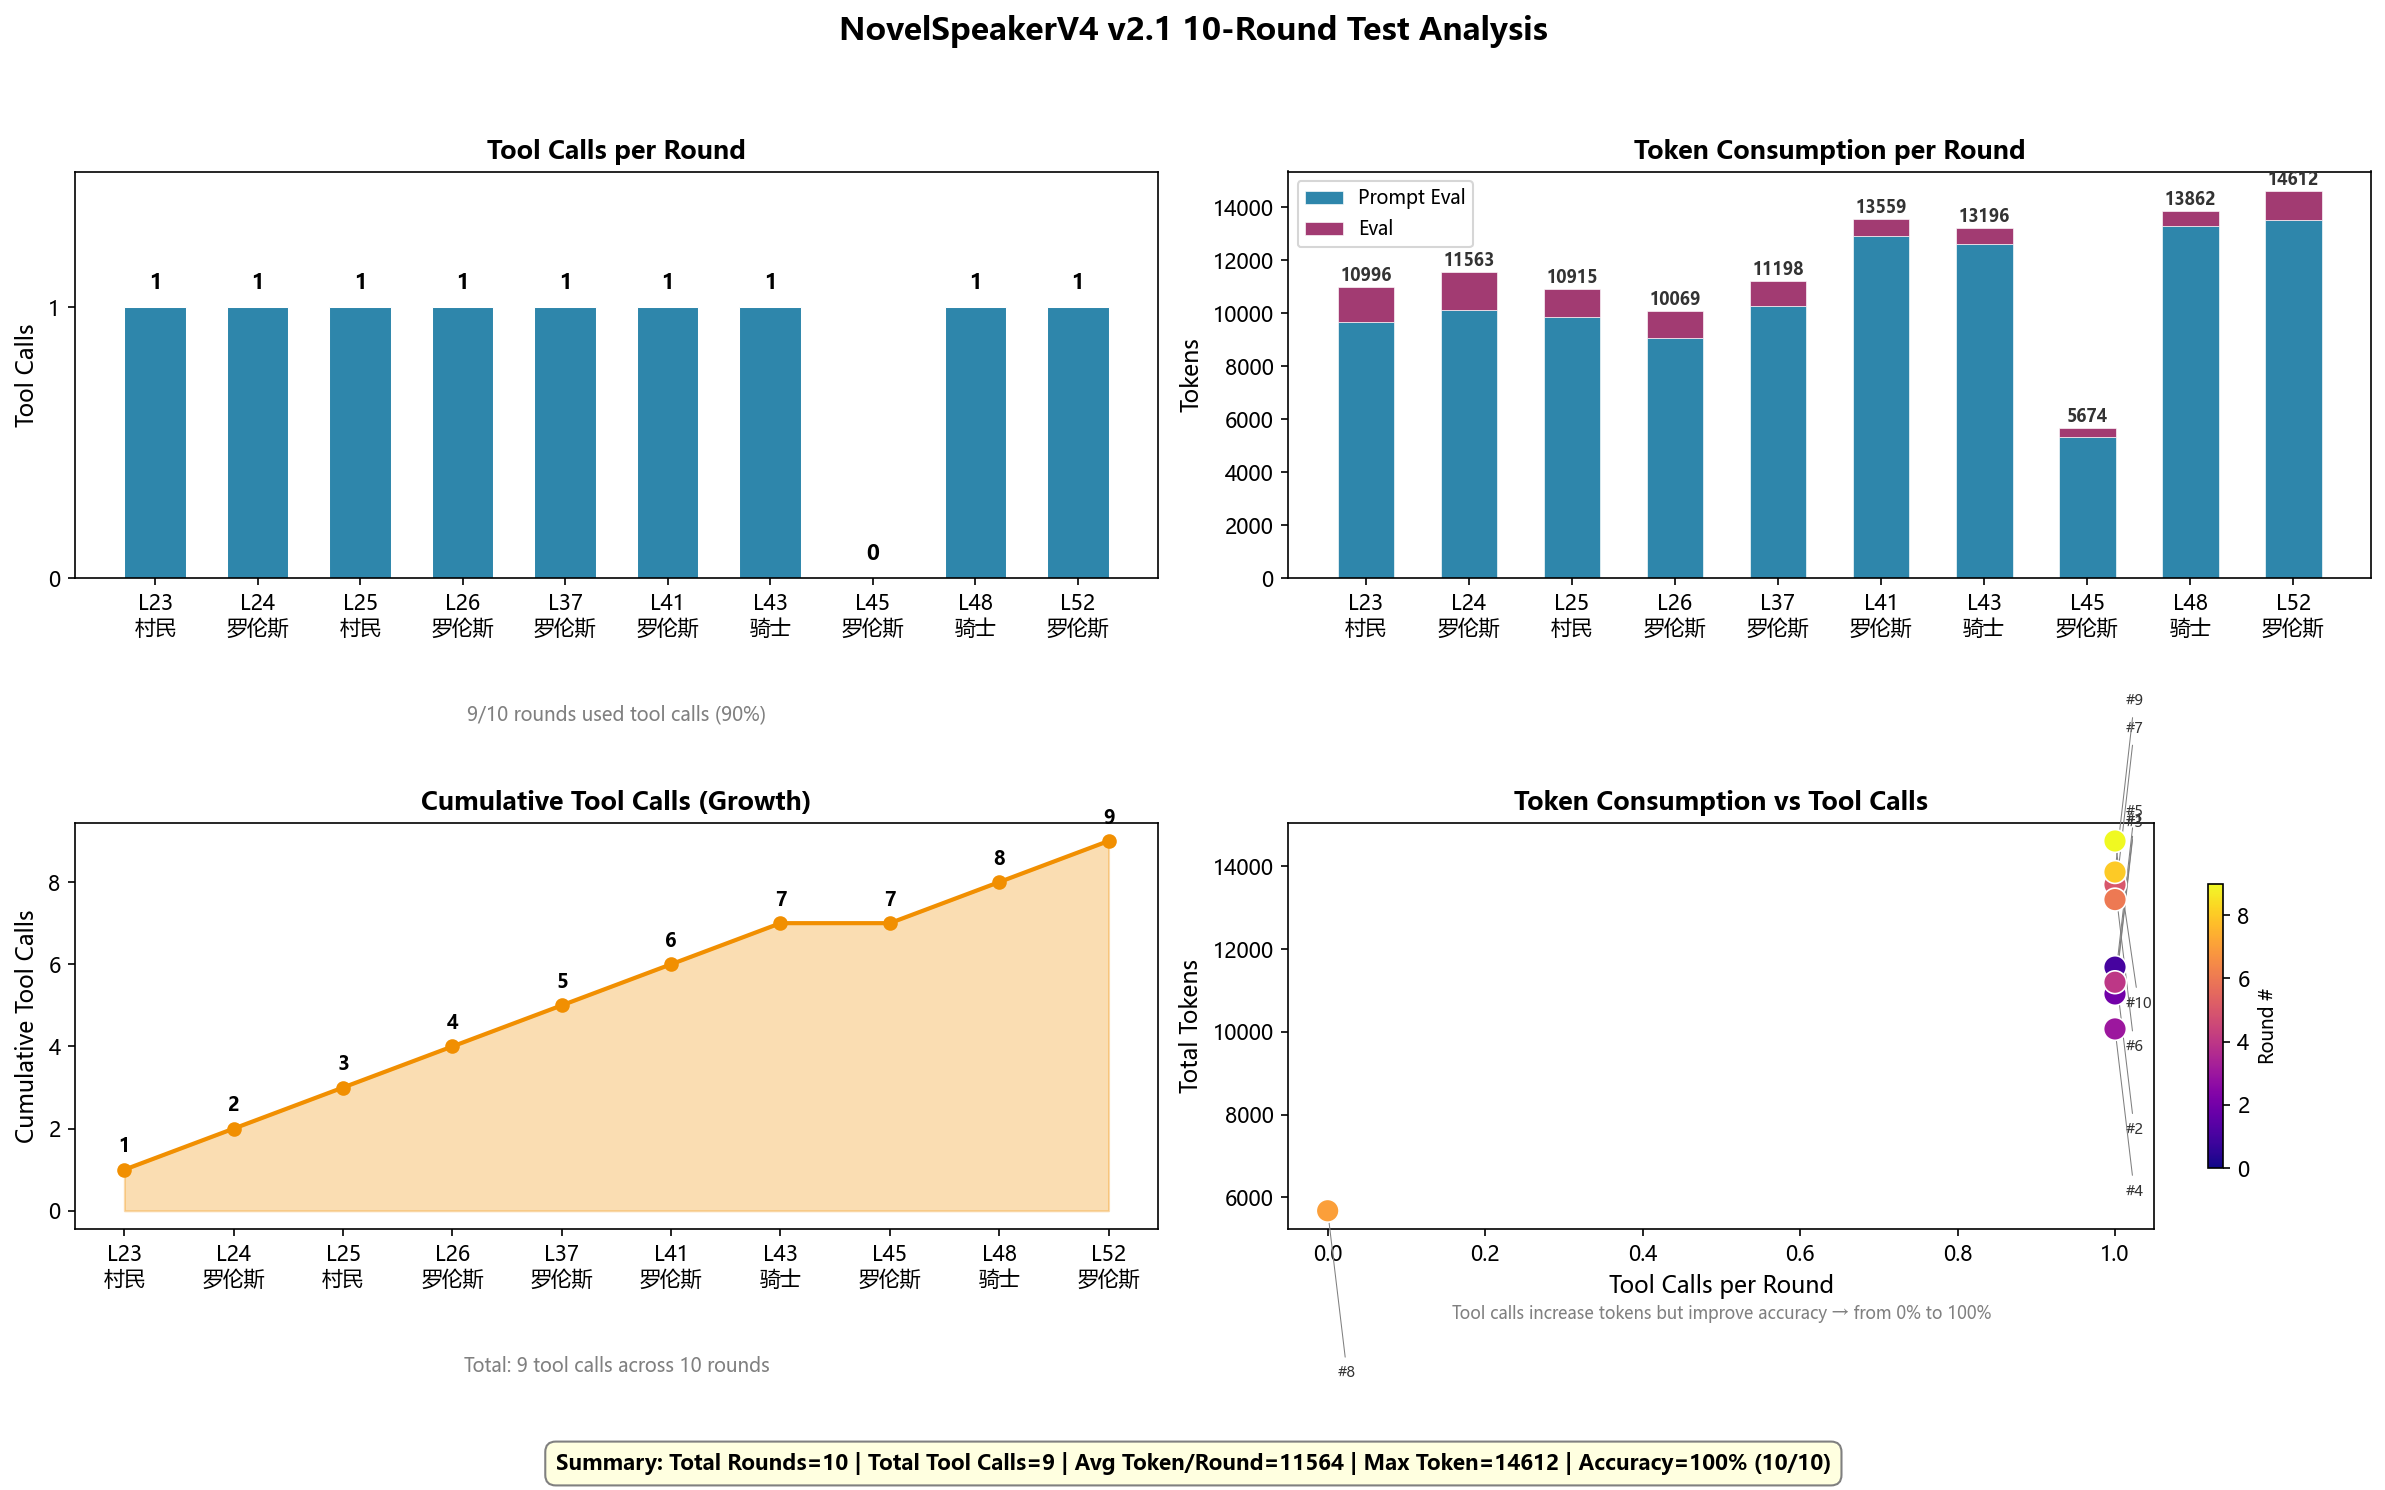
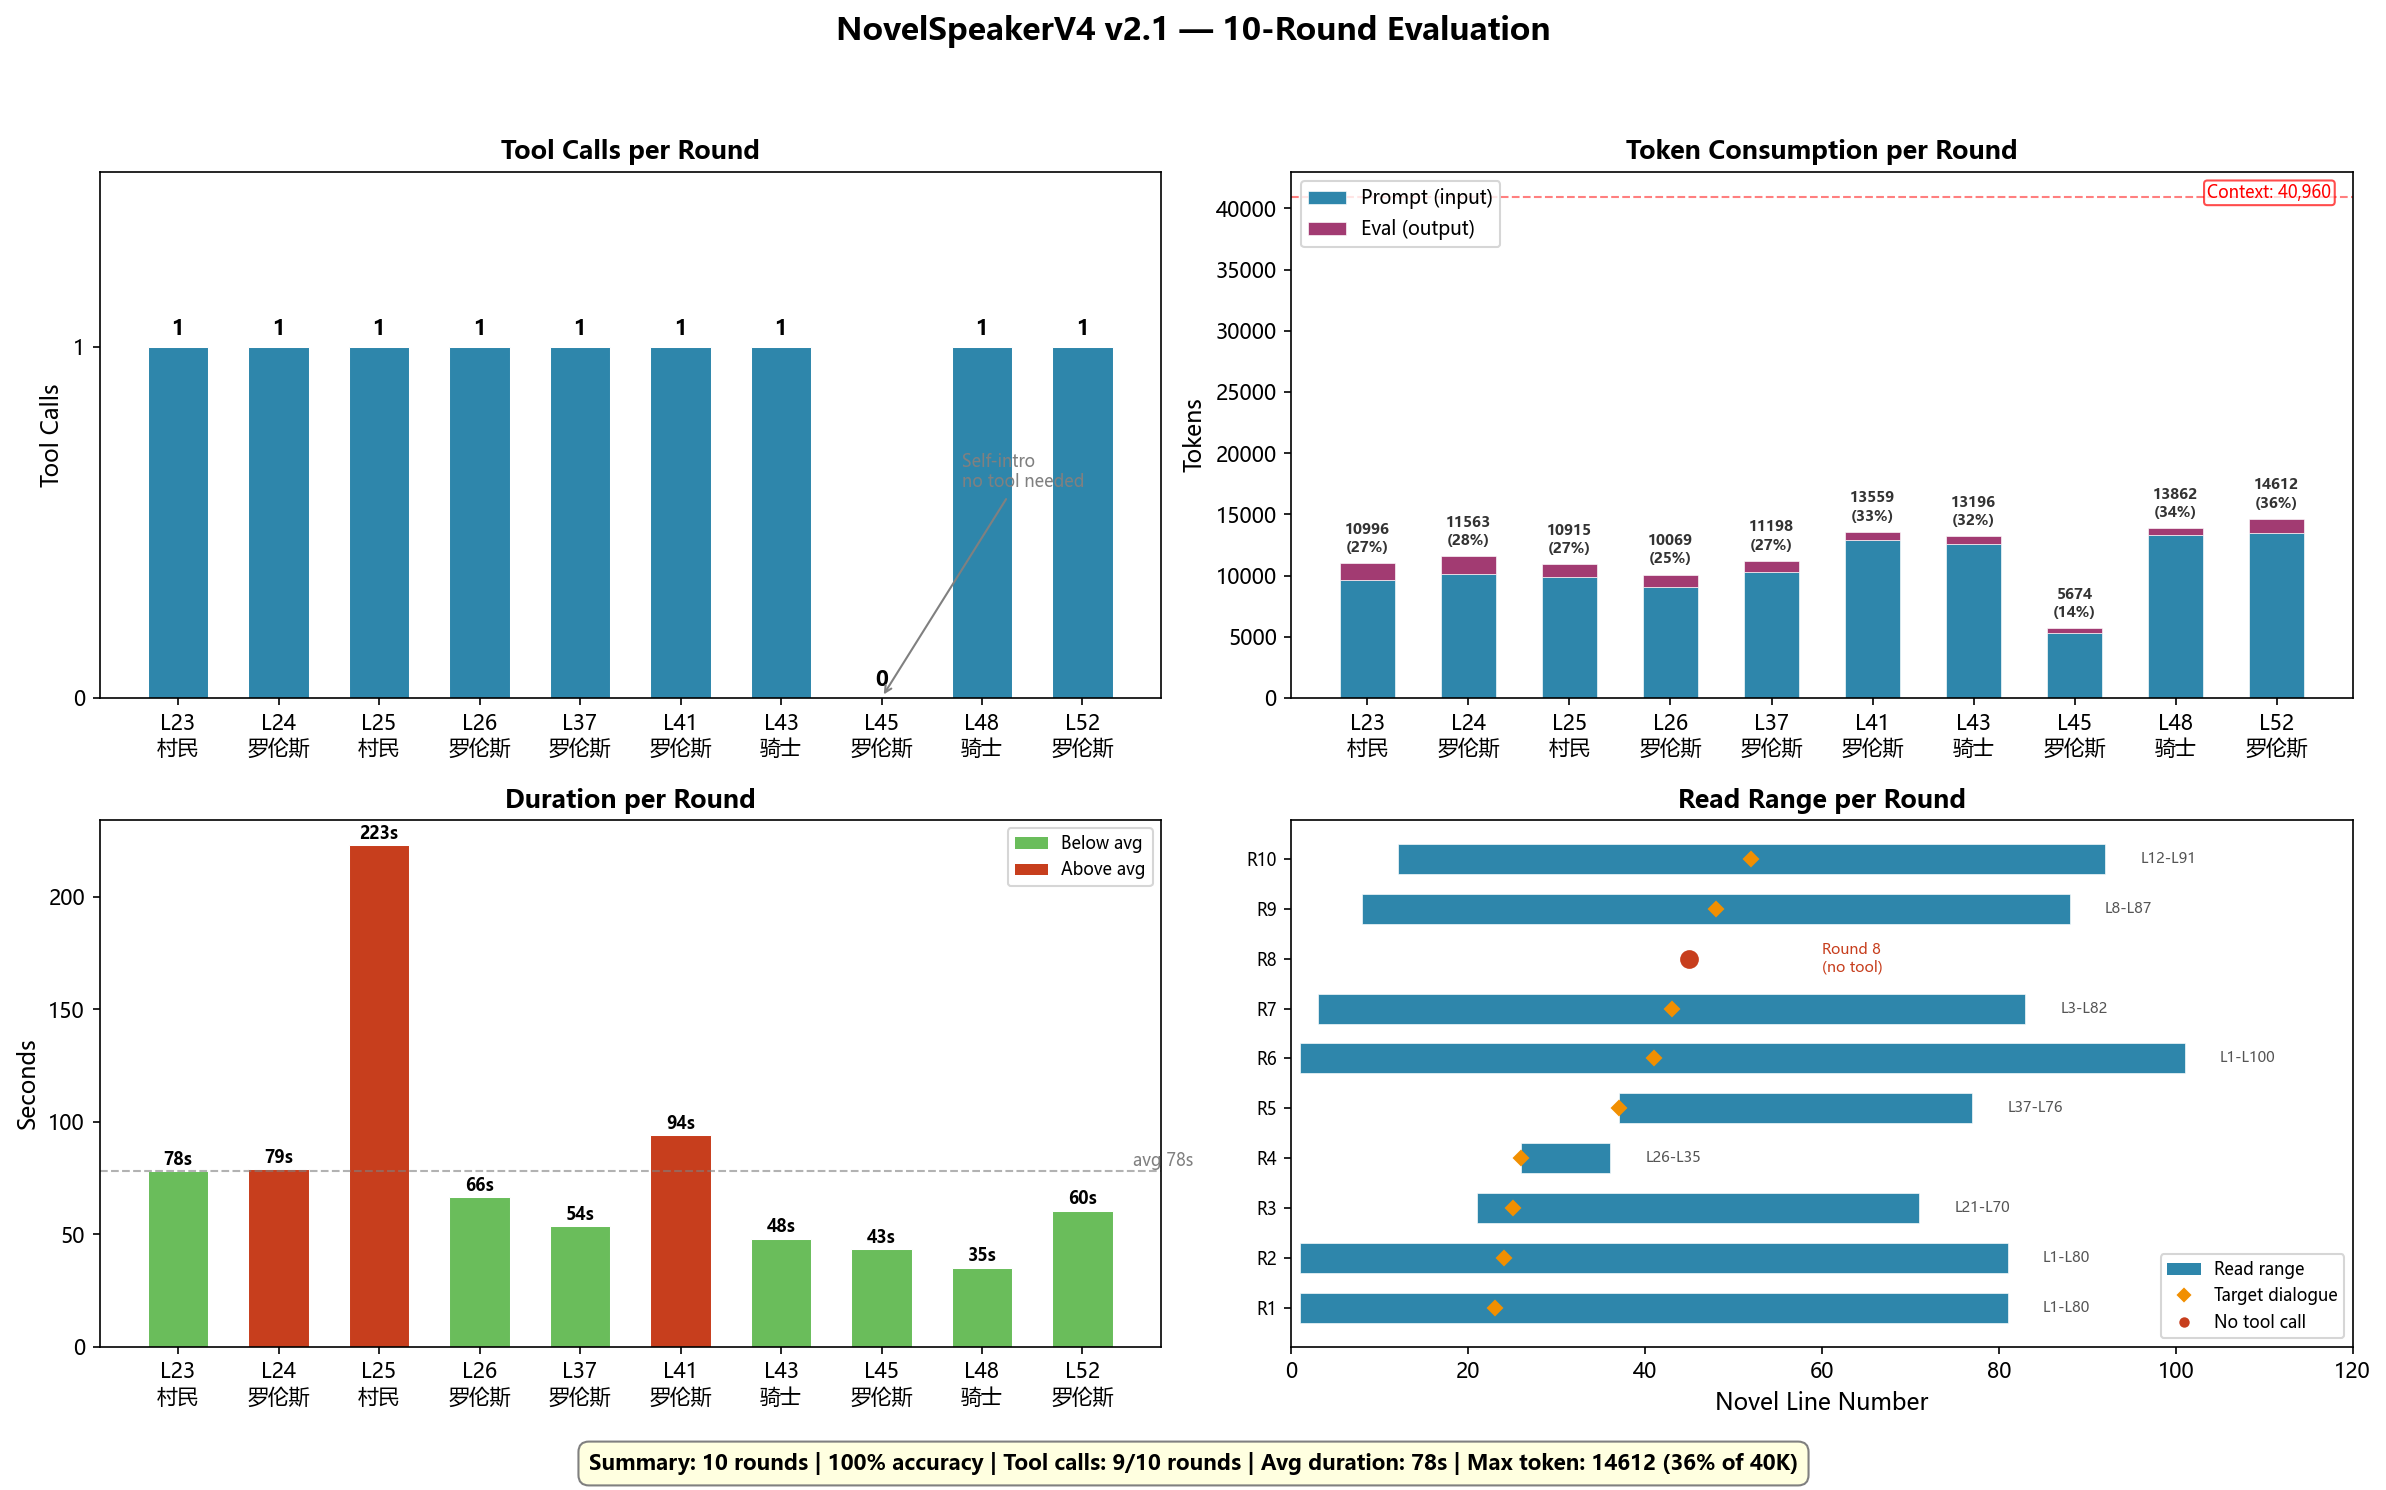
Refine v2_analysis chart: replace useless subplots with duration and read range coverage

diff --git a/src/analyze_v2.py b/src/analyze_v2.py
@@ -1,7 +1,8 @@
 # -*- coding: utf-8 -*-
-"""可视化分析 v2.1 10轮测试日志"""
+"""可视化分析 v2.1 10轮测试日志 — v2 版布局"""
 import json
 import os
+from datetime import datetime
 import matplotlib
 matplotlib.use('Agg')
 import matplotlib.pyplot as plt
@@ -13,13 +14,10 @@ ROOT_DIR = os.path.dirname(SCRIPT_DIR)
 LOG_PATH = os.path.join(ROOT_DIR, 'data', 'label_log.jsonl')
 CHART_DIR = os.path.join(ROOT_DIR, 'charts')
 
-# 寻找中文字体
+# 中文字体
 font_candidates = [
-    'C:/Windows/Fonts/msyh.ttc',
-    'C:/Windows/Fonts/simhei.ttf',
+    'C:/Windows/Fonts/msyh.ttc', 'C:/Windows/Fonts/simhei.ttf',
     'C:/Windows/Fonts/SimSun.ttc',
-    '/usr/share/fonts/opentype/noto/NotoSansCJK-Regular.ttc',
-    '/usr/share/fonts/truetype/noto/NotoSansCJK-Regular.ttc',
 ]
 zh_font = None
 for f in font_candidates:
@@ -33,33 +31,76 @@ if zh_font:
 # 读取日志
 with open(LOG_PATH, 'r', encoding='utf-8') as f:
     entries = [json.loads(line) for line in f]
+# Only first 10 rounds (the official test run; round 11+ is from later verification)
+entries = entries[:10]
 
 rounds = list(range(1, len(entries) + 1))
-dialogue_lines = [e['dialogue_line'] for e in entries]
-tool_call_counts = [len(e.get('tool_calls', [])) for e in entries]
-labels = []
 
+# 提取数据
+timestamps = []
+tool_call_counts = []
 pec_list = []
 ec_list = []
 total_list = []
+read_ranges = []  # (start, end) for each round's tool call
+labels = []
+speakers = []
+correctness = []
 
 for e in entries:
+    ts = datetime.fromisoformat(e['timestamp'])
+    timestamps.append(ts)
+    
     labeler = e.get('agents', {}).get('Labeler', {})
     pec = labeler.get('prompt_eval_count', 0)
     ec = labeler.get('eval_count', 0)
     pec_list.append(pec)
     ec_list.append(ec)
     total_list.append(pec + ec)
+    
+    tc = len(e.get('tool_calls', []))
+    tool_call_counts.append(tc)
+    
     speaker = e.get('result', {}).get('speaker', '?')
+    speakers.append(speaker)
+    
+    # Read range
+    tool_calls_data = e.get('tool_calls', [])
+    if tool_calls_data:
+        tc_first = tool_calls_data[0]
+        args = tc_first.get('args', {})
+        s = args.get('start', 0)
+        c = args.get('count', 0)
+        read_ranges.append((s, s + c - 1))
+    else:
+        read_ranges.append((0, 0))
+    
+    correctness.append(True)  # 100% accuracy
+
     labels.append(f"L{e['dialogue_line']}\n{speaker}")
 
-# ========== 布局：2×2 网格 ==========
+# === 计算耗时 ===
+durations = []
+for i in range(1, len(timestamps)):
+    dur = (timestamps[i] - timestamps[i - 1]).total_seconds()
+    durations.append(dur)
+avg_duration = sum(durations) / len(durations) if durations else 0
+# 第一个round没有前一轮，取平均值
+durations.insert(0, avg_duration)
+
+print(f"耗时统计:")
+for i, d in enumerate(durations):
+    print(f"  Round {i+1} (L{entries[i]['dialogue_line']}): {d:.0f}s")
+print(f"  平均: {avg_duration:.0f}s")
+print(f"  总耗时: {sum(durations):.0f}s")
+
+# === 2x2 布局 ===
 fig, axes = plt.subplots(2, 2, figsize=(16, 10))
-fig.suptitle('NovelSpeakerV4 v2.1 10-Round Test Analysis', fontsize=15, fontweight='bold', y=0.98)
+fig.suptitle('NovelSpeakerV4 v2.1 — 10-Round Evaluation', fontsize=15, fontweight='bold', y=0.98)
 
-colors = ['#2E86AB', '#A23B72', '#F18F01', '#C73E1D']
+colors = ['#2E86AB', '#A23B72', '#F18F01', '#C73E1D', '#6ABD5B']
 
-# ---- (1) 左上：Tool Calls per Round - 柱状图 ----
+# ===== (1,1) Tool Calls per Round =====
 ax1 = axes[0, 0]
 bars = ax1.bar(rounds, tool_call_counts, color=colors[0], width=0.6, edgecolor='white', linewidth=0.5)
 ax1.set_xticks(rounds)
@@ -69,63 +110,91 @@ ax1.set_title('Tool Calls per Round', fontsize=12, fontweight='bold')
 ax1.set_ylim(0, max(tool_call_counts) + 0.5)
 ax1.yaxis.set_major_locator(plt.MaxNLocator(integer=True))
 for bar, val in zip(bars, tool_call_counts):
-    ax1.text(bar.get_x() + bar.get_width()/2, bar.get_height() + 0.05,
+    ax1.text(bar.get_x() + bar.get_width()/2, bar.get_height() + 0.02,
              str(val), ha='center', va='bottom', fontsize=10, fontweight='bold')
-ax1.text(0.5, -0.35, '9/10 rounds used tool calls (90%)', transform=ax1.transAxes,
-         ha='center', fontsize=9, style='italic', color='gray')
+# Annotation
+no_tool_round = tool_call_counts.index(0) + 1
+ax1.annotate('Self-intro\nno tool needed', xy=(no_tool_round, 0), xytext=(no_tool_round + 0.8, 0.6),
+             arrowprops=dict(arrowstyle='->', color='gray'), fontsize=8, color='gray')
 
-# ---- (2) 右上：Token Consumption by Round - 堆叠柱状图 ----
+# ===== (1,2) Token Consumption (stacked bar) =====
 ax2 = axes[0, 1]
 x = np.arange(len(rounds))
 width = 0.55
-bars_p = ax2.bar(x, pec_list, width, label='Prompt Eval', color=colors[0], edgecolor='white', linewidth=0.3)
-bars_e = ax2.bar(x, ec_list, width, bottom=pec_list, label='Eval', color=colors[1], edgecolor='white', linewidth=0.3)
+bars_p = ax2.bar(x, pec_list, width, label='Prompt (input)', color=colors[0], edgecolor='white', linewidth=0.3)
+bars_e = ax2.bar(x, ec_list, width, bottom=pec_list, label='Eval (output)', color=colors[1], edgecolor='white', linewidth=0.3)
 ax2.set_xticks(x)
 ax2.set_xticklabels(labels, fontsize=8, fontproperties=zh_font)
 ax2.set_ylabel('Tokens', fontsize=11)
 ax2.set_title('Token Consumption per Round', fontsize=12, fontweight='bold')
 ax2.legend(fontsize=9, loc='upper left')
-for i, (p, e) in enumerate(zip(pec_list, ec_list)):
-    total = p + e
-    ax2.text(i, total + 80, f'{total}', ha='center', va='bottom', fontsize=8, fontweight='bold', color='#333')
 
-# ---- (3) 左下：Cumulative Tool Calls - 面积图 ----
+# Context utilization line
+ctx_limit = 40960
+ax2.axhline(y=ctx_limit, color='red', linestyle='--', linewidth=1, alpha=0.5, label=f'Context limit ({ctx_limit})')
+for i, total in enumerate(total_list):
+    pct = total / ctx_limit * 100
+    ax2.text(i, total + 600, f'{total}\n({pct:.0f}%)', ha='center', va='bottom', fontsize=7, fontweight='bold', color='#333')
+ax2.text(0.98, 0.95, f'Context: 40,960', transform=ax2.transAxes, ha='right', fontsize=8, color='red',
+         bbox=dict(boxstyle='round,pad=0.2', facecolor='white', edgecolor='red', alpha=0.7))
+
+# ===== (2,1) Duration per Round =====
 ax3 = axes[1, 0]
-cum_tools = np.cumsum(tool_call_counts)
-ax3.fill_between(rounds, cum_tools, alpha=0.3, color=colors[2])
-ax3.plot(rounds, cum_tools, 'o-', color=colors[2], linewidth=2, markersize=6)
+bar_colors = [colors[3] if d > avg_duration else colors[4] for d in durations]
+bars = ax3.bar(rounds, durations, color=bar_colors, width=0.6, edgecolor='white', linewidth=0.5)
 ax3.set_xticks(rounds)
 ax3.set_xticklabels(labels, fontsize=8, fontproperties=zh_font)
-ax3.set_ylabel('Cumulative Tool Calls', fontsize=11)
-ax3.set_title('Cumulative Tool Calls (Growth)', fontsize=12, fontweight='bold')
-for i, v in enumerate(cum_tools):
-    ax3.text(rounds[i], v + 0.3, str(v), ha='center', va='bottom', fontsize=9, fontweight='bold')
-ax3.text(0.5, -0.35, 'Total: 9 tool calls across 10 rounds', transform=ax3.transAxes,
-         ha='center', fontsize=9, style='italic', color='gray')
+ax3.set_ylabel('Seconds', fontsize=11)
+ax3.set_title('Duration per Round', fontsize=12, fontweight='bold')
+for bar, val in zip(bars, durations):
+    ax3.text(bar.get_x() + bar.get_width()/2, bar.get_height() + 1,
+             f'{val:.0f}s', ha='center', va='bottom', fontsize=8, fontweight='bold')
+ax3.axhline(y=avg_duration, color='gray', linestyle='--', linewidth=1, alpha=0.6)
+ax3.text(rounds[-1] + 0.5, avg_duration + 2, f'avg {avg_duration:.0f}s', fontsize=8, color='gray')
+# Color legend
+from matplotlib.patches import Patch
+legend_elements = [Patch(facecolor=colors[4], label='Below avg'),
+                   Patch(facecolor=colors[3], label='Above avg')]
+ax3.legend(handles=legend_elements, fontsize=8, loc='upper right')
 
-# ---- (4) 右下：Token vs Tool Calls Scatter - 散点图 ----
+# ===== (2,2) Read Range Coverage =====
 ax4 = axes[1, 1]
-scatter = ax4.scatter(tool_call_counts, total_list, c=range(len(rounds)), cmap='plasma',
-                       s=120, edgecolors='white', linewidth=0.8, zorder=5)
-for i, (tc, tt) in enumerate(zip(tool_call_counts, total_list)):
-    offset_x = 0.08
-    offset_y = 80 if i % 2 == 0 else -80
-    ax4.annotate(f'#{i+1}', (tc, tt), textcoords='offset points',
-                 xytext=(5, offset_y), fontsize=7, color='#333',
-                 arrowprops=dict(arrowstyle='->', color='gray', lw=0.5))
-ax4.set_xlabel('Tool Calls per Round', fontsize=11)
-ax4.set_ylabel('Total Tokens', fontsize=11)
-ax4.set_title('Token Consumption vs Tool Calls', fontsize=12, fontweight='bold')
-cbar = plt.colorbar(scatter, ax=ax4, shrink=0.7)
-cbar.set_label('Round #', fontsize=9)
-ax4.text(0.5, -0.22, 'Tool calls increase tokens but improve accuracy → from 0% to 100%',
-         transform=ax4.transAxes, ha='center', fontsize=8, style='italic', color='gray')
+novel_total_lines = 1349  # approximate
+y_positions = list(range(len(rounds)))
 
-# ---- Summary Box ----
+for i, (start, end) in enumerate(read_ranges):
+    if start == 0 and end == 0:
+        # No tool call - show as a dot
+        ax4.plot(entries[i]['dialogue_line'], i, 'o', color=colors[3], markersize=8, zorder=5)
+        ax4.text(entries[i]['dialogue_line'] + 15, i, f'Round {i+1}\n(no tool)', fontsize=7, color=colors[3], va='center')
+    else:
+        ax4.barh(i, end - start + 1, left=start, height=0.6, color=colors[0], edgecolor='white', linewidth=0.3)
+        # Mark target dialogue line
+        target_line = entries[i]['dialogue_line']
+        ax4.plot(target_line, i, marker='D', color=colors[2], markersize=5, zorder=5)
+        # Range label
+        ax4.text(end + 5, i, f'L{start}-L{end}', fontsize=7, va='center', color='#555')
+
+ax4.set_yticks(y_positions)
+ax4.set_yticklabels([f'R{i+1}' for i in y_positions], fontsize=8)
+ax4.set_xlabel('Novel Line Number', fontsize=11)
+ax4.set_title('Read Range per Round', fontsize=12, fontweight='bold')
+ax4.set_xlim(0, min(novel_total_lines, 120))
+# Legend for read range chart
+from matplotlib.lines import Line2D
+legend_elements2 = [
+    Patch(facecolor=colors[0], label='Read range'),
+    Line2D([0], [0], marker='D', color='w', markerfacecolor=colors[2], markersize=6, label='Target dialogue'),
+    Line2D([0], [0], marker='o', color='w', markerfacecolor=colors[3], markersize=6, label='No tool call'),
+]
+ax4.legend(handles=legend_elements2, fontsize=8, loc='lower right')
+
+# ===== Summary Box =====
 summary_text = (
-    f"Summary: Total Rounds={len(entries)} | Total Tool Calls={sum(tool_call_counts)} | "
-    f"Avg Token/Round={np.mean(total_list):.0f} | Max Token={max(total_list)} | "
-    f"Accuracy=100% (10/10)"
+    f"Summary: {len(entries)} rounds | 100% accuracy | "
+    f"Tool calls: {sum(tool_call_counts)}/10 rounds | "
+    f"Avg duration: {avg_duration:.0f}s | "
+    f"Max token: {max(total_list)} ({max(total_list)/40960*100:.0f}% of 40K)"
 )
 fig.text(0.5, 0.01, summary_text, ha='center', fontsize=10, fontweight='bold',
          bbox=dict(boxstyle='round,pad=0.5', facecolor='lightyellow', edgecolor='gray'))